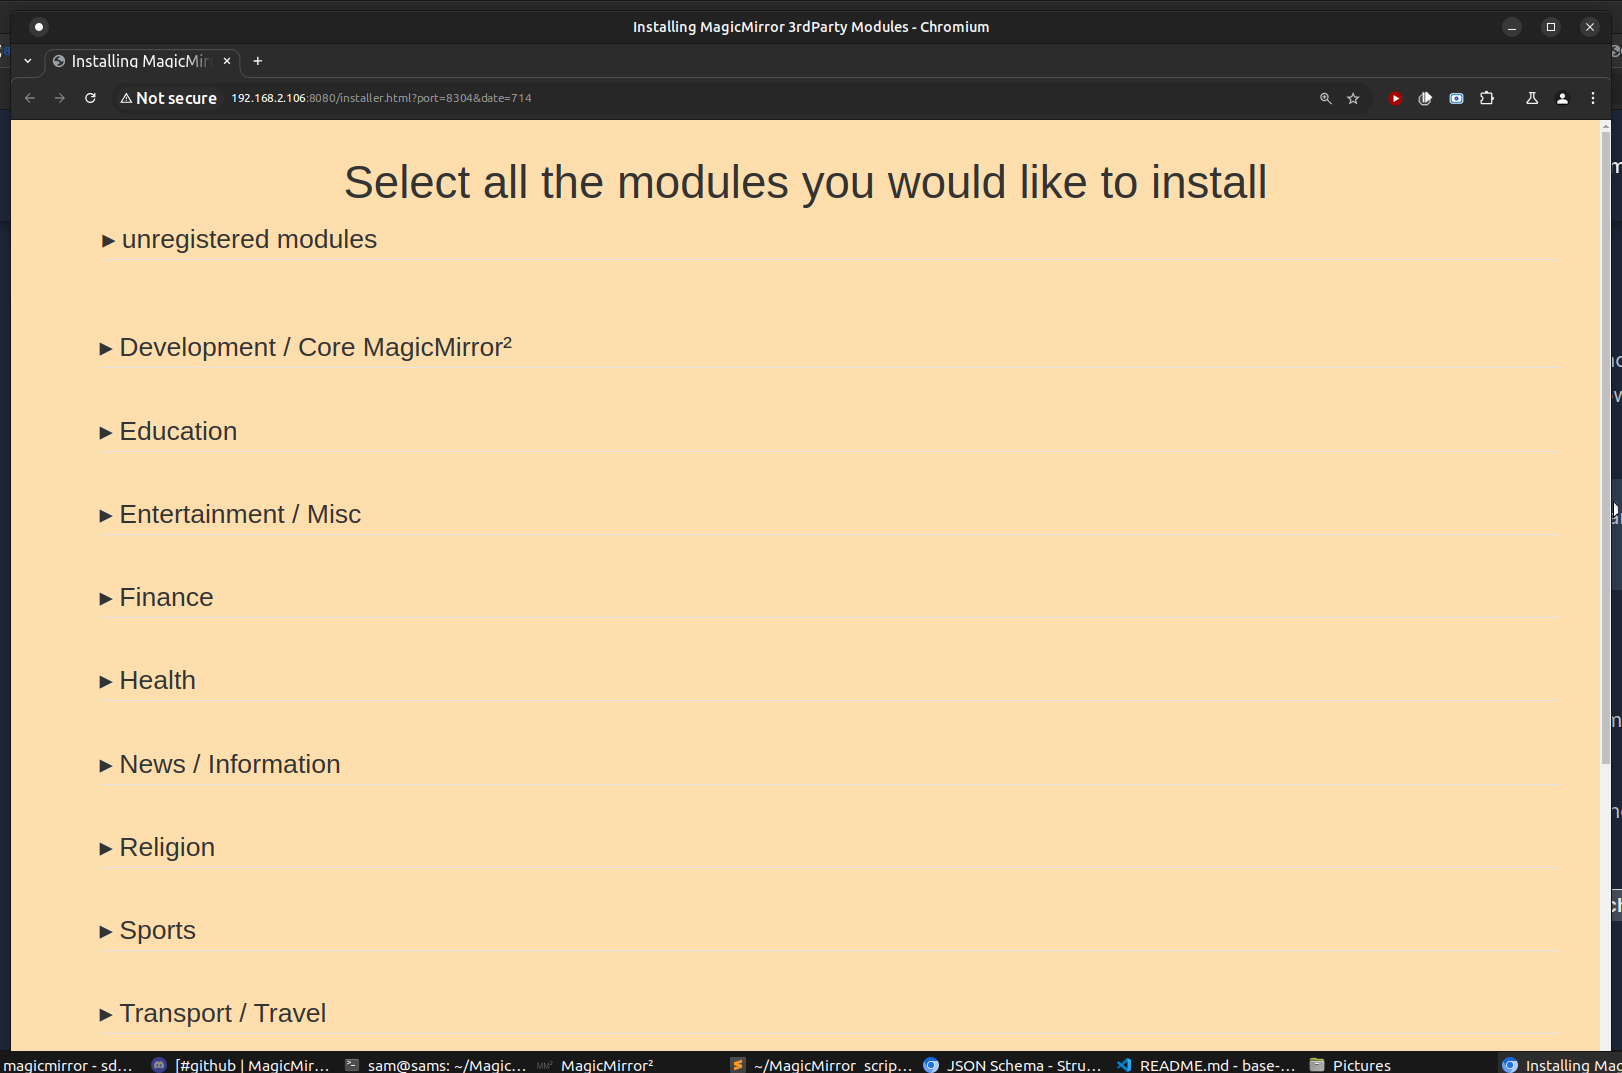
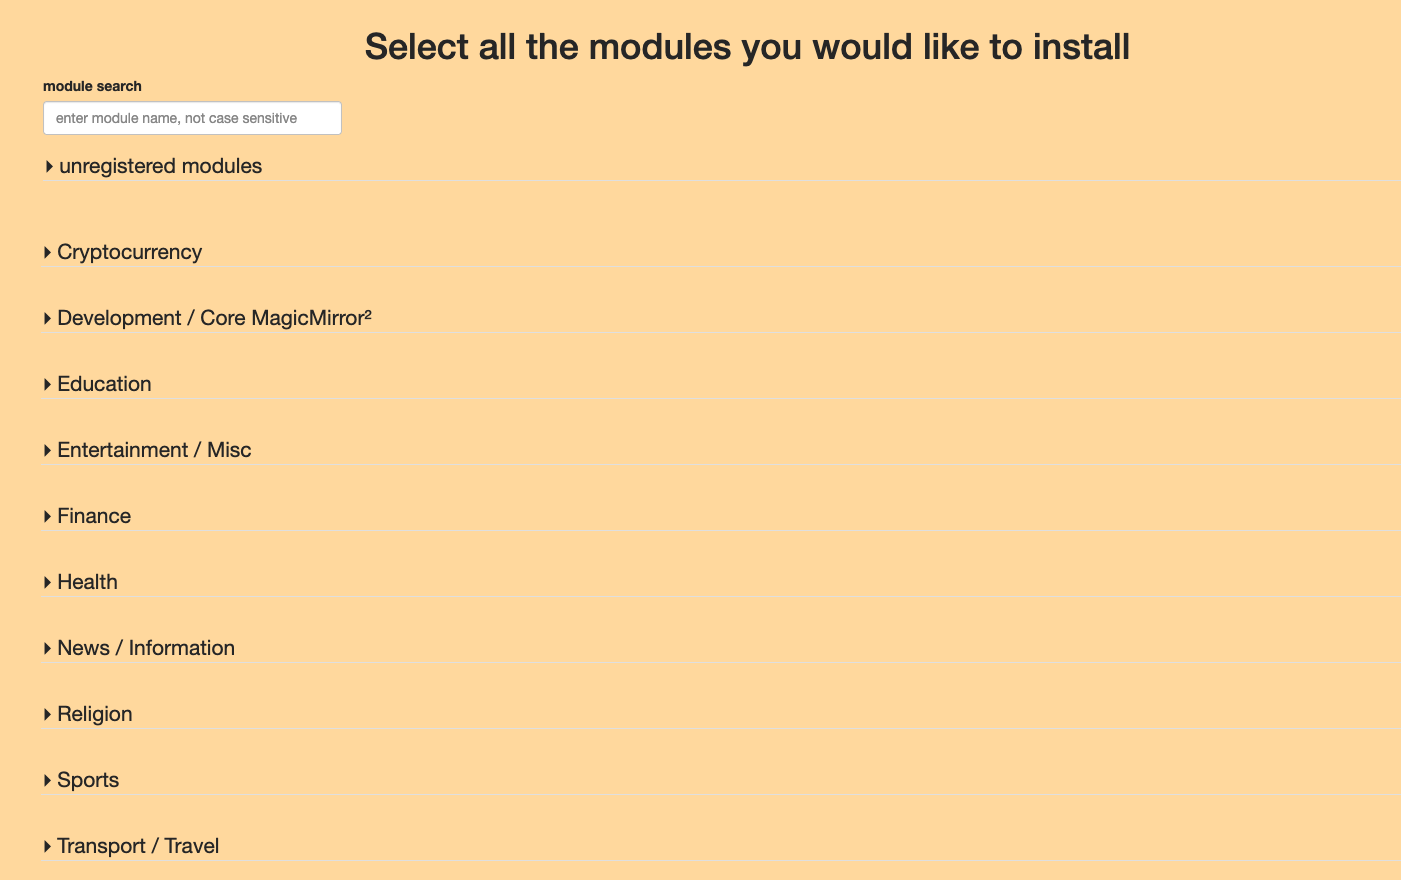
update installer top page image

Changed region(s): [[0.0, 0.0, 1.0, 1.0]]

diff --git a/README.md b/README.md
@@ -117,6 +117,8 @@ http://mmserver_ip:mm_port/installer
 the installer page looks like this 
 
 ![base variables](./module_installer/images/installer_top.png)
+you can search for a module by name, case doesn't matter
+if found the page will be scrolled to that module entry, with the entry open
 and the bottom looks like this
 ![base variables](./module_installer/images/installer_bottom.png)
 
